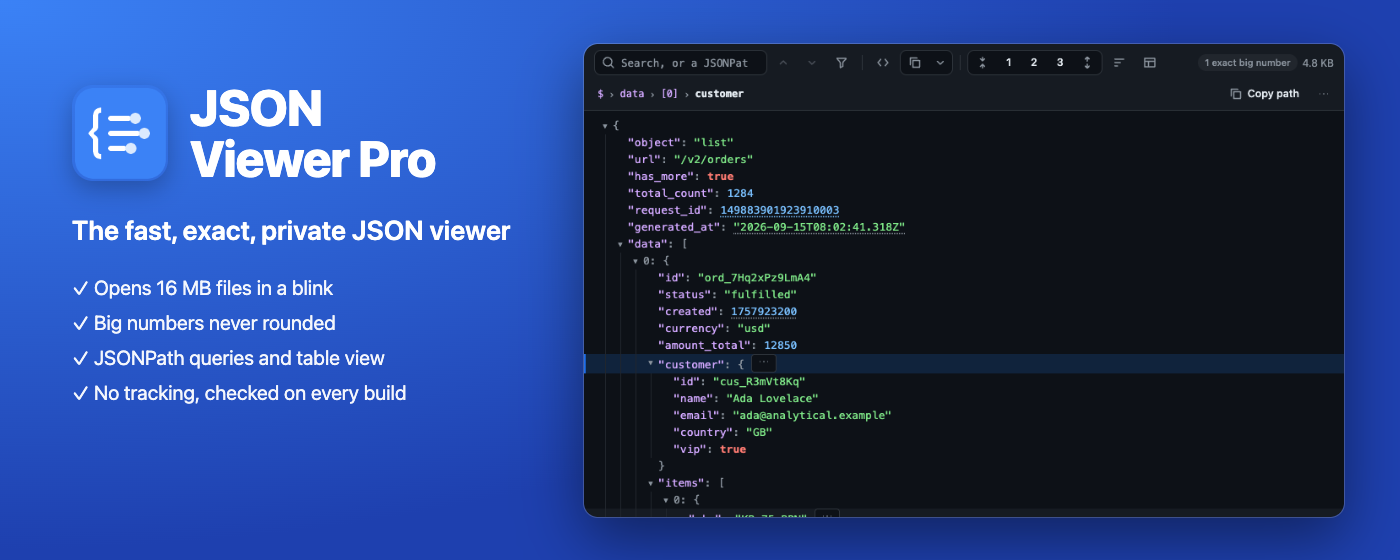
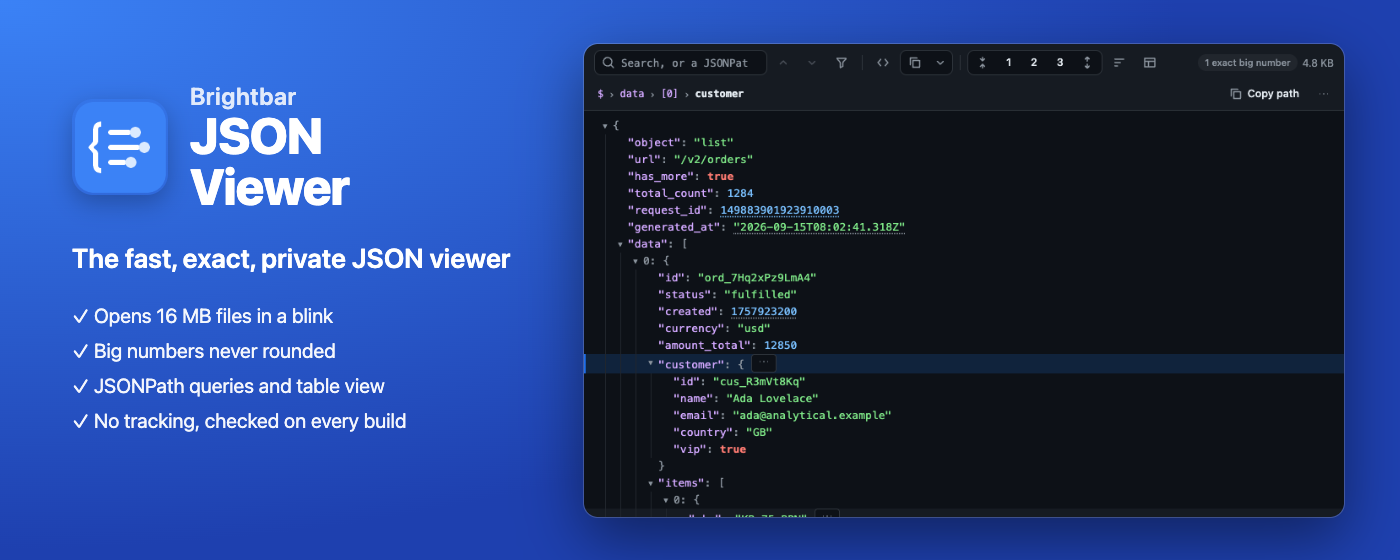
docs(store): listing refresh — renamed promo tiles, review-request disclosure, upload order (#39)
* docs(store): promo tiles carry the Brightbar JSON Viewer name; listing discloses the review request

- store/capture/capture.mjs drew "JSON Viewer Pro" on both promo tiles, a name retired on
  2026-09-22. Both tiles are re-rendered from the real build; the five screenshots re-rendered
  pixel-identical (RMSE 0), so they are unchanged here.
- The description says, in its privacy section, that the extension asks once for a review
  (review-nudge 0.1.1, shipped 0.8.x) and never again.
- store/cws.json gains listing_assets: the upload order for the dashboard, which the CWS API
  cannot set, and which org-work's listing-drift check reads.

The live listing still shows the April screenshots and the "JSON Viewer Pro" tiles; these
assets have to be uploaded in the dashboard (RUNBOOK section 7).

* docs(store): list JSON Compare with JSON Patch export

Changed region(s): [[0.0307, 0.3946, 0.3686, 0.7893], [0.0307, 0.1518, 0.3379, 0.3643]]

diff --git a/README.md b/README.md
@@ -194,6 +194,7 @@ A VIEWER PAGE OF ITS OWN
 
 PRIVATE, AND YOU CAN CHECK
 - No tracking, analytics, ads or donation popups, and no network requests of its own
+- One request, once: after you have used it on a few different days, it asks whether you would leave a review, with a separate link for reporting a problem, and it never asks again
 - Open source: https://github.com/brightbar-dev/json-viewer-pro
 - Every build runs an automated check that fails if the code contains a network API, a remote address or code built from strings
 - One API permission, storage, for your settings
